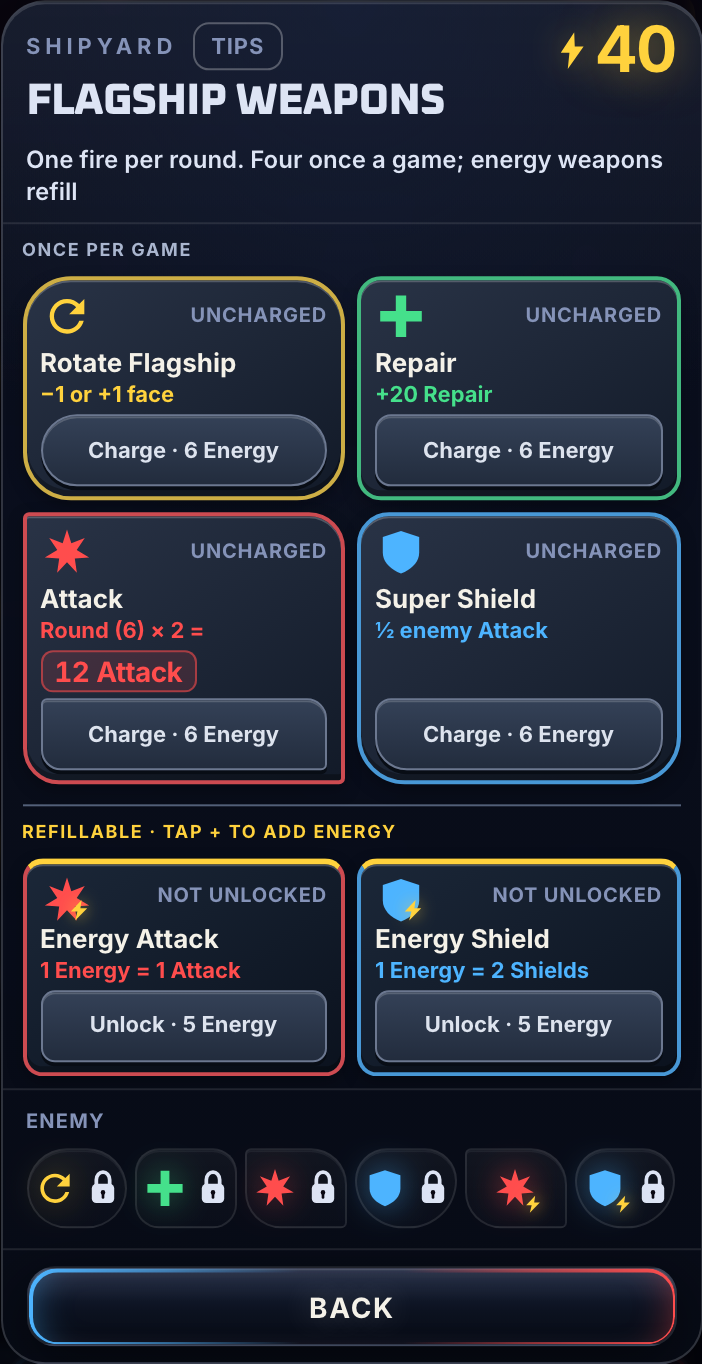
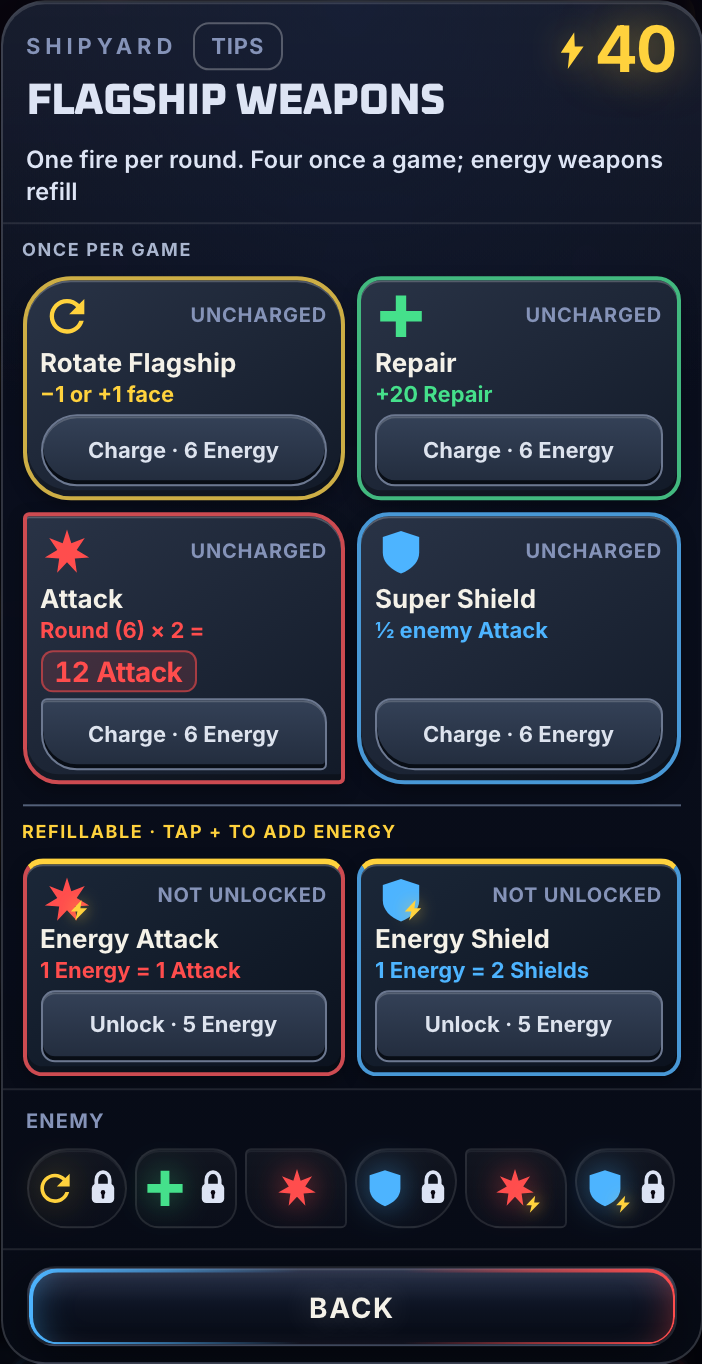
Polish flagship tile corners and refill labels

diff --git a/app/globals.css b/app/globals.css
@@ -259,12 +259,13 @@
   color: #090d17;
   background: linear-gradient(180deg, color-mix(in srgb, var(--weapon-color) 65%, white), var(--weapon-color));
   border-color: color-mix(in srgb, var(--weapon-color) 70%, white);
-  box-shadow: inset 0 1px 0 rgb(255 255 255 / .5), 0 3px 0 color-mix(in srgb, var(--weapon-color) 30%, #080d15);
+  box-shadow: inset 0 1px 0 rgb(255 255 255 / .5), inset 0 -3px 0 color-mix(in srgb, var(--weapon-color) 45%, #080d15);
 }
-.weapon-window .weapon-card > button:enabled:active, .weapon-energy-plus:enabled:active { transform: translateY(2px); box-shadow: inset 0 2px 4px rgb(0 0 0 / .3); }
-.weapon-window .weapon-rotate > button { border-radius: 20px; }
-.weapon-window .weapon-attack > button, .weapon-window .weapon-energyAttack > button { border-radius: 3px 10px 3px 10px; }
-.weapon-window .weapon-shield > button, .weapon-window .weapon-energyShield > button { border-radius: 8px 8px 16px 16px; }
+.weapon-window .weapon-card > button:enabled:active, .weapon-energy-plus:enabled:active { box-shadow: inset 0 2px 4px rgb(0 0 0 / .3); }
+.weapon-window .weapon-rotate > button { border-radius: 24px; }
+.weapon-window .weapon-repair > button { border-radius: 10px; }
+.weapon-window .weapon-attack > button, .weapon-window .weapon-energyAttack > button { border-radius: 3px 12px 3px 18px; }
+.weapon-window .weapon-shield > button, .weapon-window .weapon-energyShield > button { border-radius: 8px 8px 20px 20px; }
 /* The tile rim shows stored readiness, independent of whether Charge is clickable. */
 .weapon-window .weapon-card-available {
   border-color: var(--weapon-color);
@@ -281,7 +282,7 @@
 .weapon-window .weapon-card-empty > button {
   color: #dde3ee; border-color: #6c7890;
   background: linear-gradient(180deg, #344157, #222c3d);
-  box-shadow: inset 0 1px 0 rgb(255 255 255 / .18), 0 2px 0 #080d15;
+  box-shadow: inset 0 1px 0 rgb(255 255 255 / .18), inset 0 -2px 0 #080d15;
 }
 .weapon-window .weapon-card-empty .weapon-state { color: #a6afbf; }
 .weapon-window .weapon-card-used {
@@ -304,7 +305,6 @@
 /* Refillable stores have their own bank controls below the once-per-game weapons. */
 .weapon-group-label { grid-column: 1 / -1; margin: 0; color: #aab6cf; font-size: 9px; font-weight: 800; letter-spacing: .09em; text-transform: uppercase; }
 .weapon-group-energy { display: flex; flex-direction: column; gap: 2px; margin-top: 4px; padding-top: 6px; border-top: 1px solid #536079; color: var(--color-energy); }
-.weapon-group-energy small { font-size: 10px; font-weight: 600; letter-spacing: 0; text-transform: none; color: #dce2ed; }
 .weapon-window .weapon-card-energy { border-radius: 10px; border-top: 3px solid var(--color-energy); background: linear-gradient(145deg, #1b2738, #0b121e); }
 .weapon-window .weapon-card-energy > button { border-radius: 7px; }
 .weapon-window .weapon-energy-store { grid-template-columns: 1fr auto; gap: 3px 4px; padding: 4px; border: 1px solid #45516a; border-radius: 7px; background: #080e19; }

diff --git a/components/FlagshipWeapons.tsx b/components/FlagshipWeapons.tsx
@@ -300,7 +300,7 @@ function WeaponWindow({ player, enemy, shop, busy, onAction, onClose }: {
                   <p className="weapon-energy-count t-num">{power}/{powerMax}<small> {id === "energyShield" ? "shields" : "attack"}</small></p>
                   <meter className="weapon-storage-gauge" min={0} max={powerMax} value={power} aria-label={`${WEAPON_NAMES[id]} stored ${id === "energyShield" ? "Shields" : "Attack"}`} />
                   <p className="weapon-energy-limit">Up to {TUNING.weaponEnergyFillPerRound} Energy per round</p>
-                  <p className="weapon-fill-progress" aria-label={`${filled} of ${TUNING.weaponEnergyFillPerRound} Energy added this round`}><b>{filled}/{TUNING.weaponEnergyFillPerRound}</b><span>this round</span></p>
+                  <p className="weapon-fill-progress" aria-label={`${filled} of ${TUNING.weaponEnergyFillPerRound} Energy added this round`}><b>{filled}/{TUNING.weaponEnergyFillPerRound}</b><span>added</span></p>
                   <button type="button"
                     className="weapon-energy-plus"
                     disabled={busy || !canFillWeapon(player, id)}
